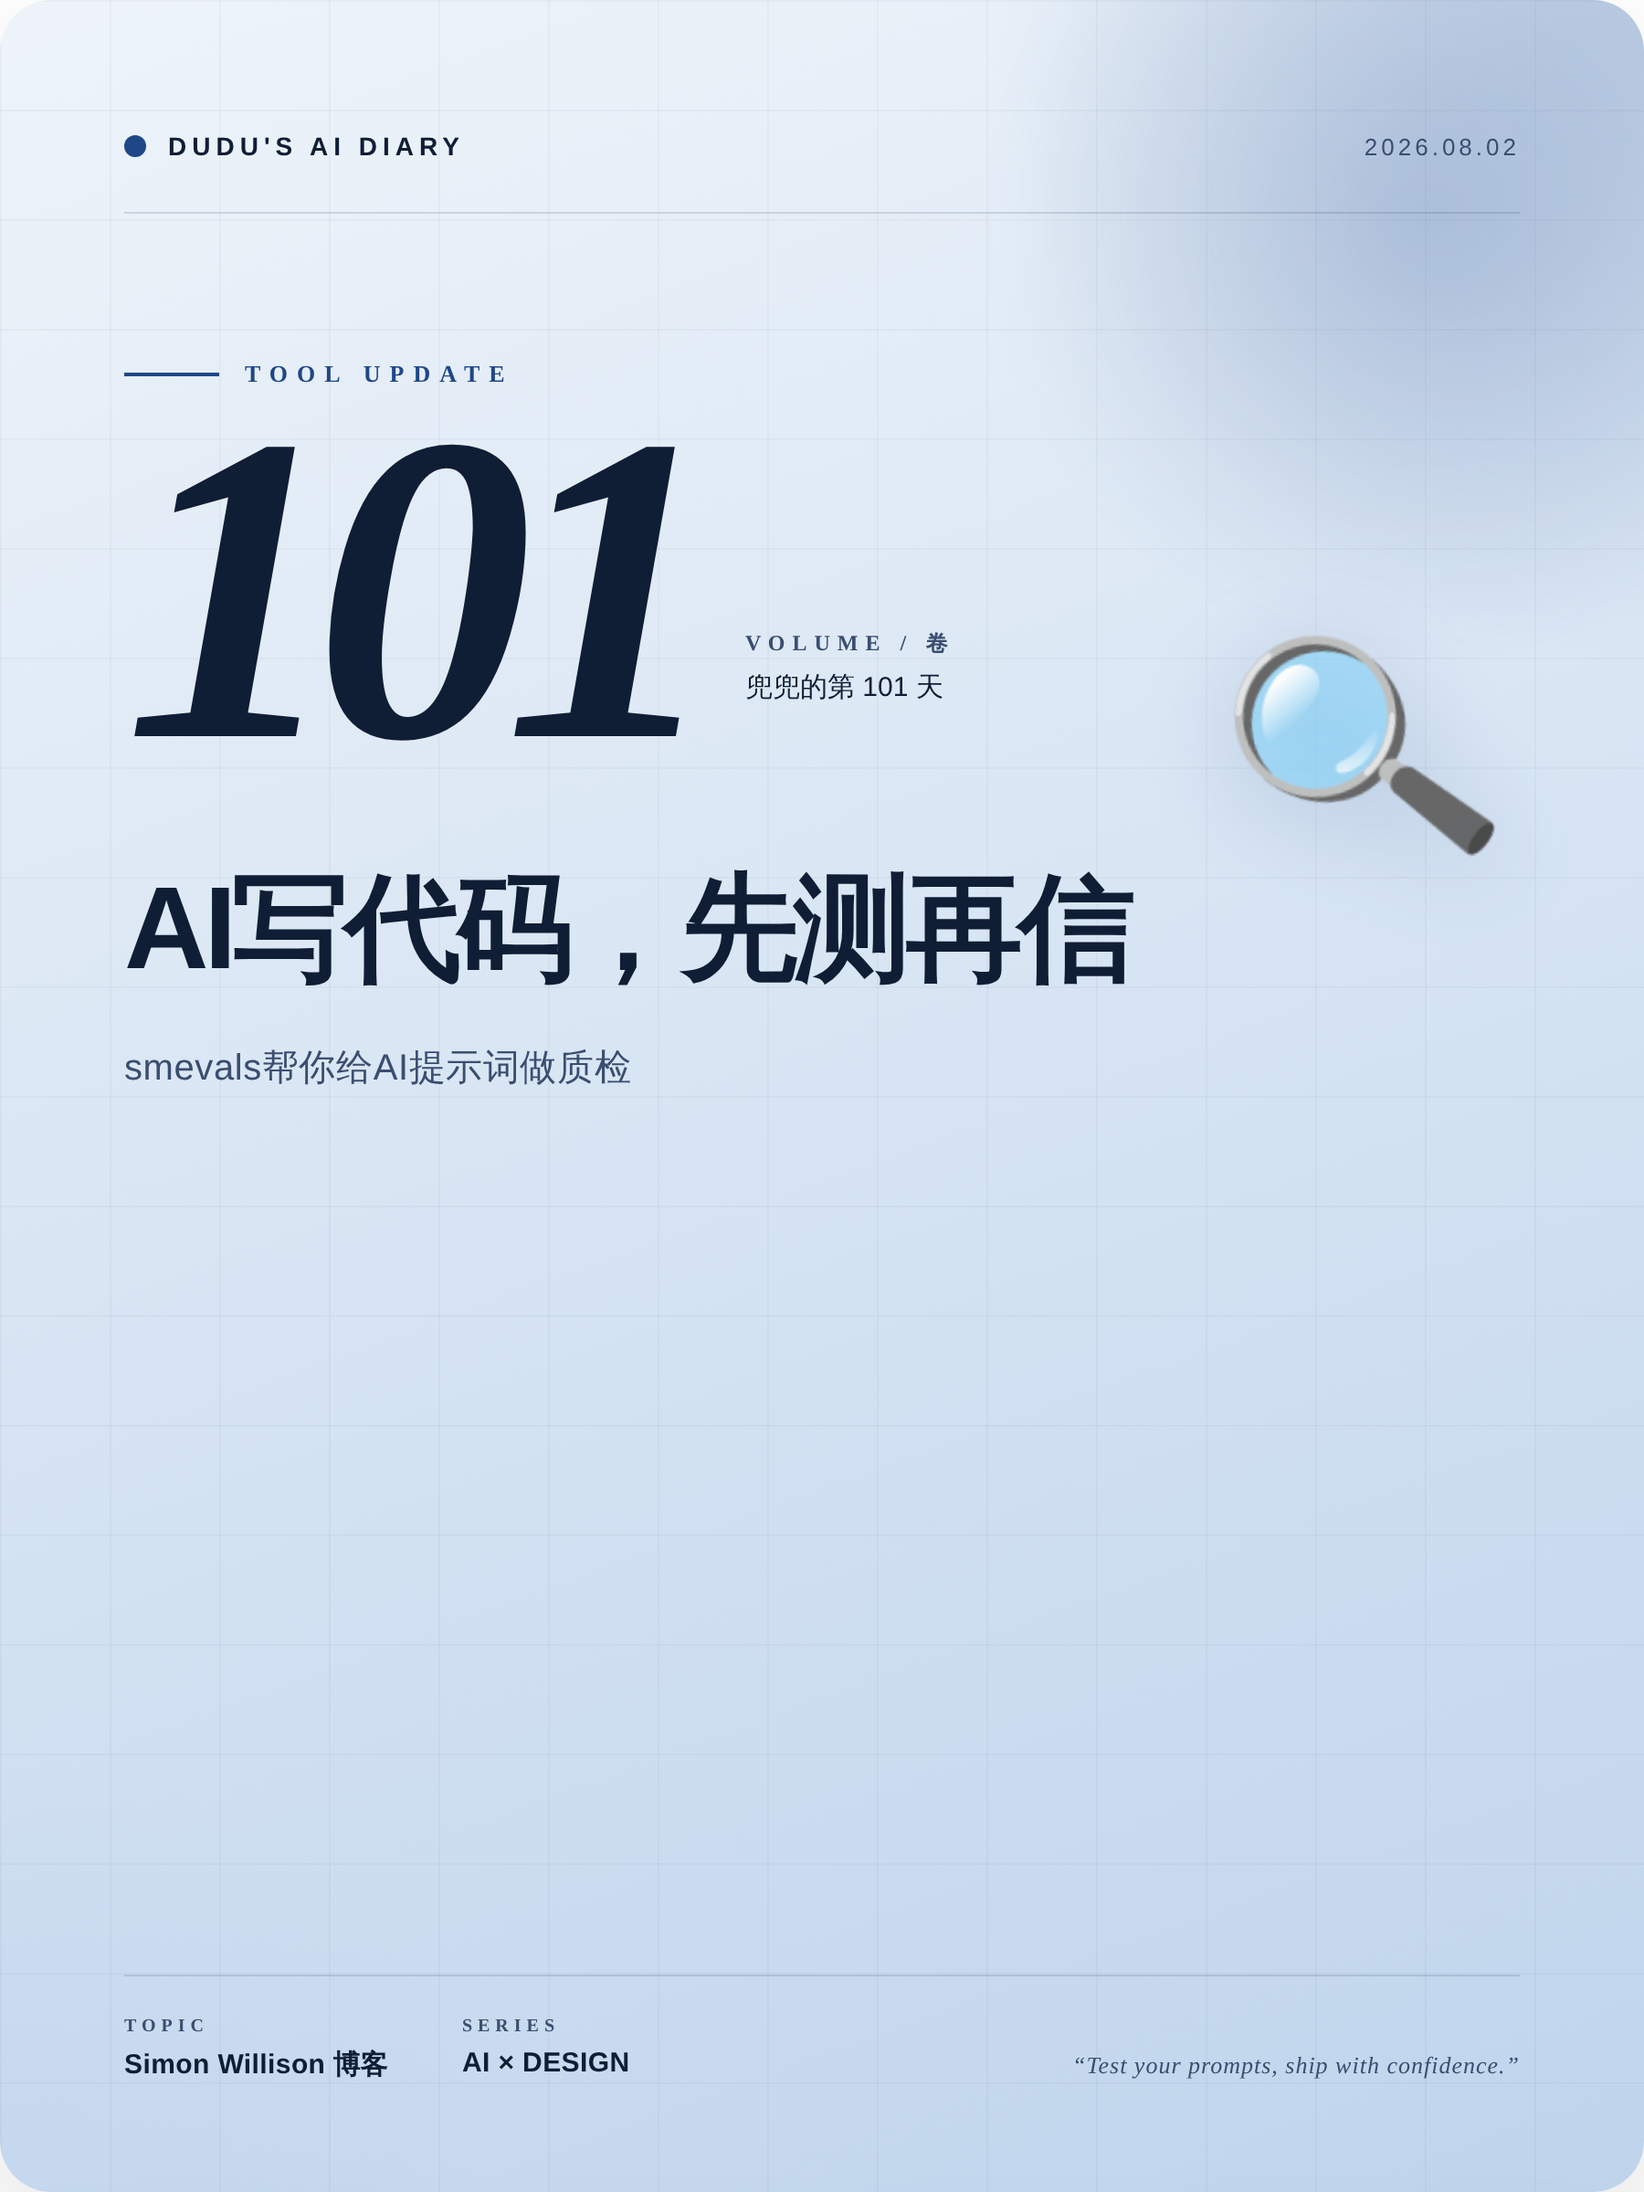
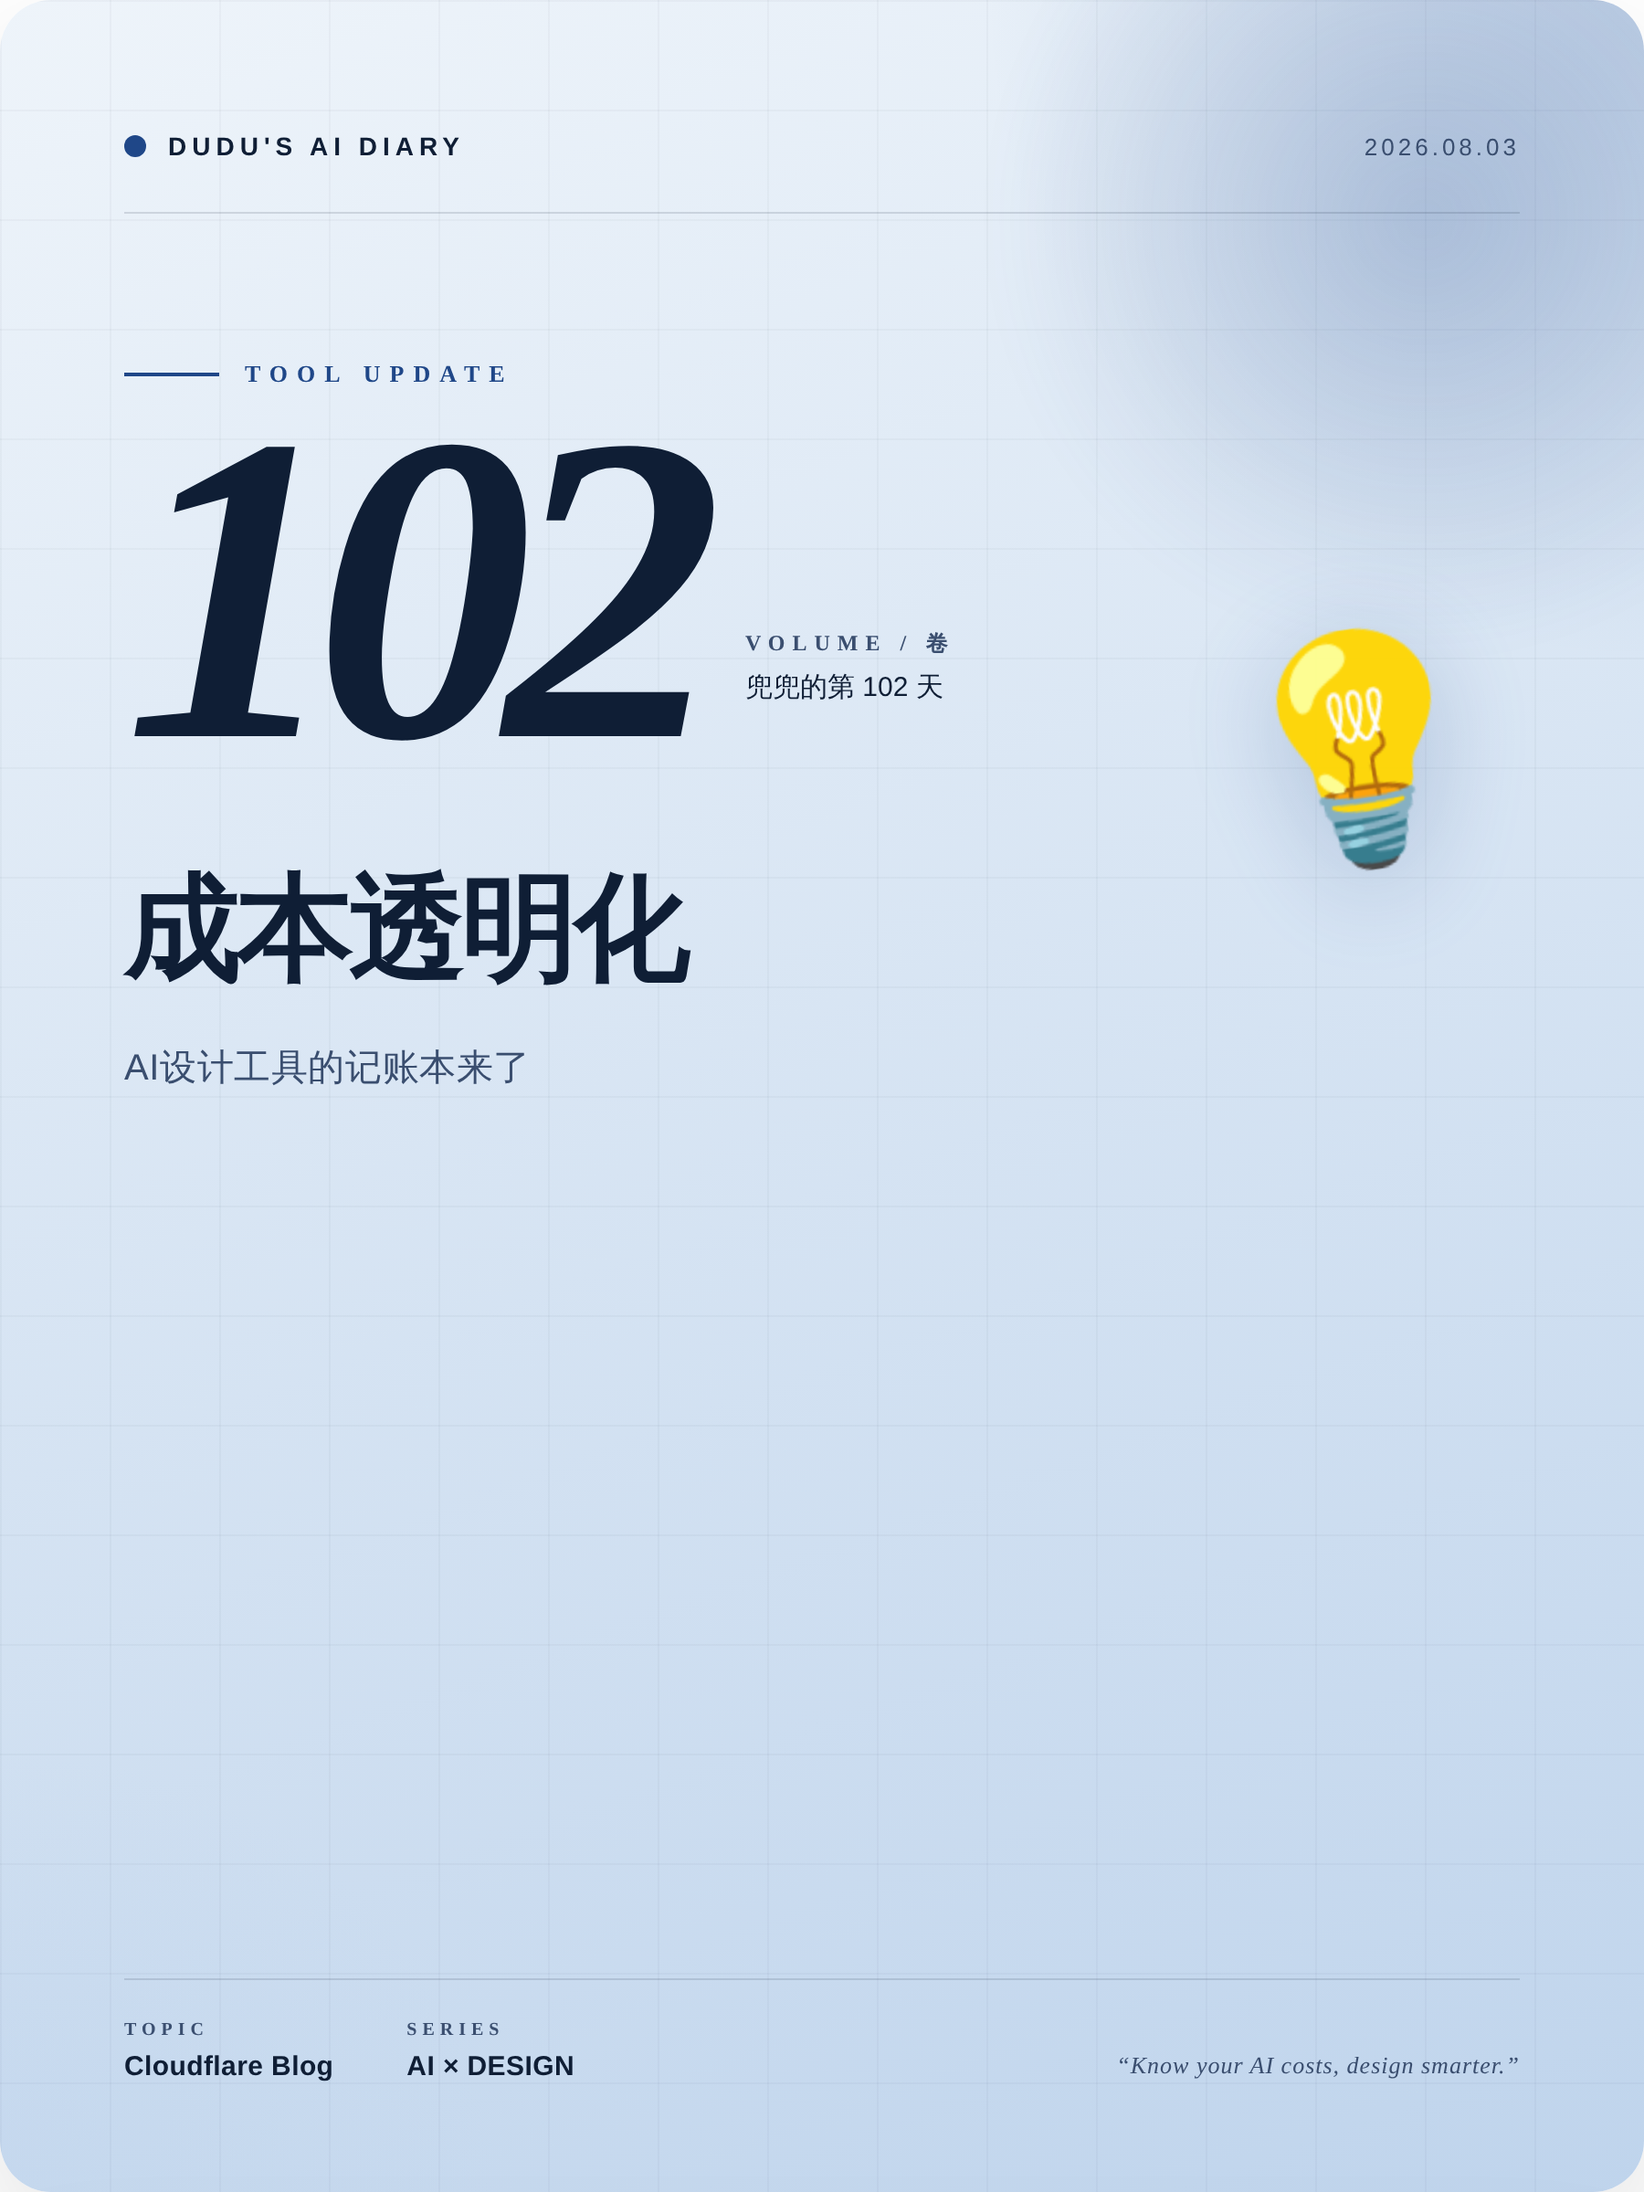
🐣 兜兜的第 102 天日记 (2026-08-03)

diff --git a/output/preview.html b/output/preview.html
@@ -171,14 +171,14 @@ body{font-family:-apple-system,"PingFang SC","Microsoft YaHei",sans-serif}
 <div class="card cover" id="cover">
   <div class="cover-grid"></div>
   <div class="cover-blob"></div>
-  <div class="cover-emoji">🔍</div>
+  <div class="cover-emoji">💡</div>
 
   <div class="cover-top">
     <div class="cover-brand">
       <div class="cover-brand-dot"></div>
       <div class="cover-brand-text">DUDU&#39;S AI DIARY</div>
     </div>
-    <div class="cover-date">2026.08.02</div>
+    <div class="cover-date">2026.08.03</div>
   </div>
 
   <div class="cover-kicker">
@@ -187,21 +187,21 @@ body{font-family:-apple-system,"PingFang SC","Microsoft YaHei",sans-serif}
   </div>
 
   <div class="cover-volume">
-    <div class="cover-vol-num">101</div>
+    <div class="cover-vol-num">102</div>
     <div class="cover-vol-meta">
       <div class="cover-vol-label">VOLUME / 卷</div>
-      <div class="cover-vol-sub">兜兜的第 101 天</div>
+      <div class="cover-vol-sub">兜兜的第 102 天</div>
     </div>
   </div>
 
-  <div class="cover-title">AI写代码，先测再信</div>
-  <div class="cover-subtitle">smevals帮你给AI提示词做质检</div>
+  <div class="cover-title">成本透明化</div>
+  <div class="cover-subtitle">AI设计工具的记账本来了</div>
 
   <div class="cover-bottom">
     <div class="cover-bottom-left">
       <div class="cover-bottom-cell">
         <div class="cell-label">TOPIC</div>
-        <div class="cell-val">Simon Willison 博客</div>
+        <div class="cell-val">Cloudflare Blog</div>
       </div>
       <div class="cover-bottom-cell">
         <div class="cell-label">SERIES</div>
@@ -209,7 +209,7 @@ body{font-family:-apple-system,"PingFang SC","Microsoft YaHei",sans-serif}
       </div>
     </div>
     <div class="cover-bottom-right">
-      <div class="cover-quote-en">&ldquo;Test your prompts, ship with confidence.&rdquo;</div>
+      <div class="cover-quote-en">&ldquo;Know your AI costs, design smarter.&rdquo;</div>
     </div>
   </div>
 </div>
@@ -222,7 +222,7 @@ body{font-family:-apple-system,"PingFang SC","Microsoft YaHei",sans-serif}
       <div class="compare-head-dot"></div>
       <div class="compare-head-kicker">CHAPTER 02 · COMPARISON</div>
     </div>
-    <div class="compare-head-right">DAY 101</div>
+    <div class="compare-head-right">DAY 102</div>
   </div>
 
   <div class="compare-title">一张图看懂区别</div>
@@ -235,8 +235,8 @@ body{font-family:-apple-system,"PingFang SC","Microsoft YaHei",sans-serif}
         <div class="cs-chip-dot"></div>
         BEFORE
       </div>
-      <div class="cs-title">盲猜AI输出</div>
-      <div class="cs-desc">每次生成结果随机，好次看运气，反复手动调提示词。</div>
+      <div class="cs-title">黑盒账单</div>
+      <div class="cs-desc">月底看到总账单，不知道钱花哪了，只能认栽</div>
       <div class="cs-metric-wrap">
         <div class="cs-metric-label">KEY METRIC</div>
         <div class="cs-metric-val">耗时 2h</div>
@@ -255,8 +255,8 @@ body{font-family:-apple-system,"PingFang SC","Microsoft YaHei",sans-serif}
         <div class="cs-chip-dot"></div>
         AFTER
       </div>
-      <div class="cs-title">跑分定最优</div>
-      <div class="cs-desc">smevals一键测试多个模型，生成报告对比，选出最稳提示词。</div>
+      <div class="cs-title">透明成本</div>
+      <div class="cs-desc">API 拆解到每次生成，实时看成本，像看电表</div>
       <div class="cs-metric-wrap">
         <div class="cs-metric-label">KEY METRIC</div>
         <div class="cs-metric-val">耗时 5min</div>
@@ -269,7 +269,7 @@ body{font-family:-apple-system,"PingFang SC","Microsoft YaHei",sans-serif}
     <div class="compare-insight-icon">💡</div>
     <div class="compare-insight-text">
       <div class="compare-insight-label">DUDU&#39;S INSIGHT</div>
-      <div class="compare-insight-body">设计师也该学会给AI提示词做评测，稳定输出才是生产力。</div>
+      <div class="compare-insight-body">设计师该把成本当设计变量，而不是事后看账单。</div>
     </div>
   </div>
 </div>
@@ -284,39 +284,40 @@ body{font-family:-apple-system,"PingFang SC","Microsoft YaHei",sans-serif}
         <div class="post-avatar">🐣</div>
         <div class="post-author-meta">
           <div class="post-author-name">兜兜的AI日记</div>
-          <div class="post-author-day">DAY 101 · 2026.08.02</div>
+          <div class="post-author-day">DAY 102 · 2026.08.03</div>
         </div>
       </div>
     </div>
     <div class="post-head-right">
       <div class="post-issue">ISSUE</div>
-      <div class="post-issue-num">N°101</div>
+      <div class="post-issue-num">N°102</div>
     </div>
   </div>
 
-  <div class="post-title">🐣AI写代码靠谱吗？用它测一下</div>
+  <div class="post-title">🐣AI设计成本透明化</div>
 
   <div class="post-pullquote">
-    <div class="post-pullquote-text">因为兜兜想看看AI写代码到底靠不靠谱，这个工具正好能测出来。</div>
+    <div class="post-pullquote-text">因为成本可见性是 AI 原生设计工具落地时最容易被忽略的坑，兜兜觉得这个 API 能让设计师从'只管画'到'管得住'。</div>
   </div>
 
-  <div class="post-body">兜兜今天打开Simon Willison的博客，发现他搞了个新工具叫smevals，专门用来测AI模型和提示词的好坏。它跑起来超简单，一个命令`uvx smevals run`就能让gpt-5.5、claude-opus-4.6这些模型比赛，最后还生成一份静态HTML报告，一眼看出谁强谁弱。
+  <div class="post-body">今天 Cloudflare 发布了一个叫 Billable Usage API 的东西，一次调用就能把 Workers、R2、D1、Workers AI 这些服务的用量和成本全拆出来。兜兜第一反应：这不就是给 AI 设计工具装了个'记账本'吗？以前设计师用 AI 生成图片、跑模型，月底看到账单都是一脸懵，现在终于能看清每一笔花在哪了。
 
-作为设计师，兜兜觉得这玩意儿特别有用：
-▸ 咱们平时让AI生成UI代码，经常这次好下次坏，用smevals就能给提示词做个“质检”，稳定输出不翻车。
-▸ 它把“运行”和“打分”分开，就像设计评审先出稿再打分，流程清晰，兜兜喜欢这种节奏。
-▸ 兜兜更喜欢smevals的小巧，不用搭复杂环境，本地跑跑就行，不像大评测框架那么重。
+兜兜从设计师角度想了想，这个 API 至少改变三件事：
+▸ 设计工具定价更透明：像 v0、Figma AI 这类工具背后都跑在云上，以后可以按实际用量给用户报价，而不是一刀切月费。
+▸ 设计师能优化工作流：比如知道哪个环节最烧钱（比如反复生成缩略图），就能针对性调整，省下预算给更重要的实验。
+▸ 让 AI 设计更'可计算'：以前调 prompt 靠感觉，现在可以看成本曲线，像调参一样调成本。兜兜更喜欢这种把成本变成设计变量的思路，比黑盒强多了。
 
-💭 兜兜动手建议：拿一个你常用的AI生成UI的提示词，用smevals跑个5分钟的小测试，看看不同模型的表现，选个最稳的当默认配置。
+💭 兜兜的小思考：
+5 分钟能做什么？去 Cloudflare 控制台看看你常用的那些 AI 服务（比如 Workers AI）今天的用量和预估费用，截个图存下来。下次做设计方案时，把'成本'也当成一个设计指标写进文档——这可能是未来设计师的新技能。
 
-你试过用AI生成界面代码吗？有没有翻车的时候？
+提问：你最想看到哪个 AI 设计工具公开它的成本结构？
 
-—— 兜兜的第 101 天
+—— 兜兜的第 102 天
 
-#AI设计 #设计工具 #提示词测试 #smevals #设计效率</div>
+#AI设计 #成本透明 #Cloudflare #设计工具 #设计思维</div>
 
   <div class="post-tags">
-    <span class="post-tag">#AI设计</span><span class="post-tag">#设计工具</span><span class="post-tag">#提示词测试</span><span class="post-tag">#smevals</span><span class="post-tag">#设计效率</span>
+    <span class="post-tag">#AI设计</span><span class="post-tag">#成本透明</span><span class="post-tag">#Cloudflare</span><span class="post-tag">#设计工具</span><span class="post-tag">#设计思维</span>
   </div>
 
   <div class="post-foot">
